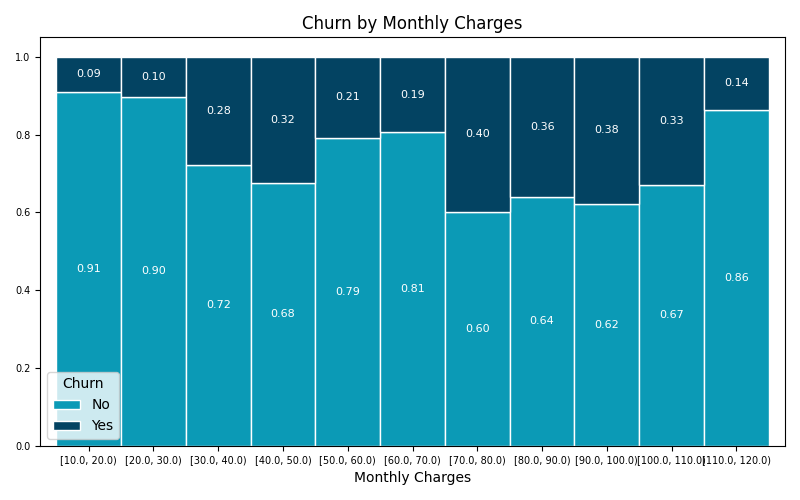
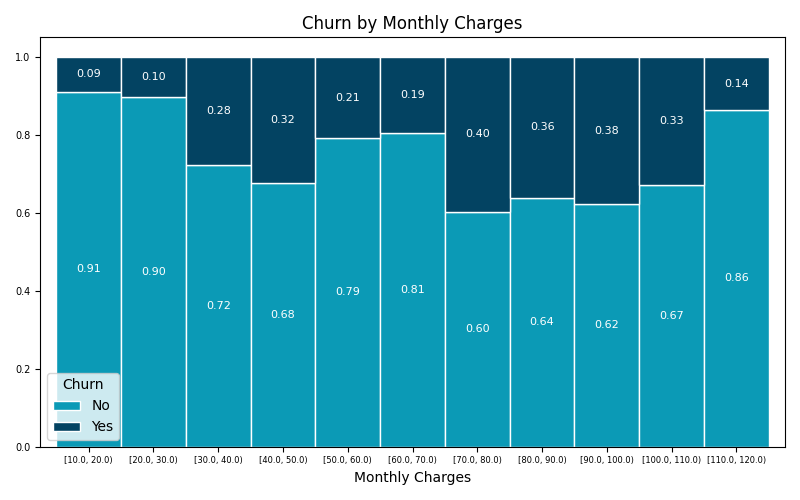
Updates.

diff --git a/graphs_generation.py b/graphs_generation.py
@@ -100,7 +100,7 @@ def dependents_bar(dependents_data):
 
 
 def churn_by_dependents_monthly_mean_bar(mean_data):
-    churn_by_sociodem_monthly_mean_bar(mean_data, 'partner')
+    churn_by_sociodem_monthly_mean_bar(mean_data, 'dependents')
 
 
 def av_tenure_by_sociodem_line(sociodem_data):
@@ -152,7 +152,7 @@ def churn_bar(tenure_churn_data, name):
     tenure_churn_data.plot(kind='bar', stacked=True, color=['#0B9AB6', '#034362'], edgecolor='w', width=1, ax=ax)
     plt.title(f'Churn by {name.title()}')
     plt.xlabel(f'{name.title()}')
-    plt.xticks(rotation=0, fontsize=7)
+    plt.xticks(rotation=0, fontsize=6)
     plt.yticks(fontsize=7)
     plt.legend(title='Churn')
     for container in ax.containers:
@@ -219,7 +219,7 @@ def churn_by_sociodem_monthly_mean_bar(mean_data, name):
 
     plt.xticks(fontsize=7)
     plt.yticks(fontsize=7)
-    plt.title(f'Share of average monthly charges\n by churn and {name}')
+    plt.title(f'Share of average monthly charges\nby churn and {name}')
     plt.tight_layout()
 
     plt.savefig(f'static/graphs/churn_by_{name.replace(" ", "_")}_monthly_mean_bar.png')

diff --git a/app.py b/app.py
@@ -56,18 +56,18 @@ def sociodem_page():
     dependents_bar(dependents_data)
 
     by_age_group = churn_by_age_group_monthly_mean()
-    by_dependents = churn_by_dependents_monthly_mean()
     by_partner = churn_by_partner_monthly_mean()
+    by_dependents = churn_by_dependents_monthly_mean()
+
+    churn_by_age_group_monthly_mean_bar(by_age_group)
+    churn_by_partner_monthly_mean_bar(by_partner)
+    churn_by_dependents_monthly_mean_bar(by_dependents)
 
     tenure_by_sociodem = av_tenure_by_sociodem()
     av_tenure_by_sociodem_line(tenure_by_sociodem)
 
     charges_by_sociodem = av_monthly_charges_by_sociodem()
     av_monthly_charges_by_sociodem_line(charges_by_sociodem)
-
-    churn_by_age_group_monthly_mean_bar(by_age_group)
-    churn_by_partner_monthly_mean_bar(by_partner)
-    churn_by_dependents_monthly_mean_bar(by_dependents)
 
     return render_template('sociodem.html',
                            age_group_stat=age_group_stat,
